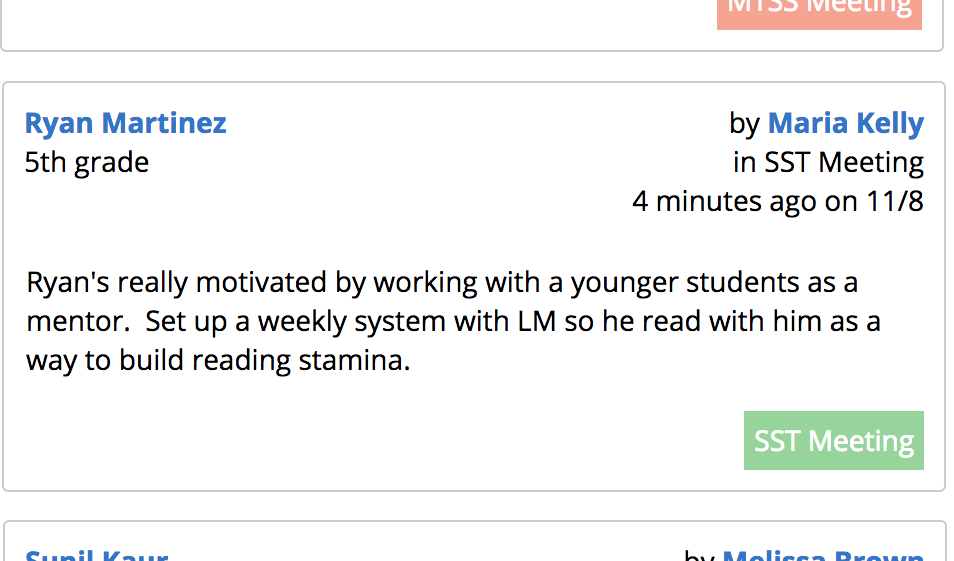
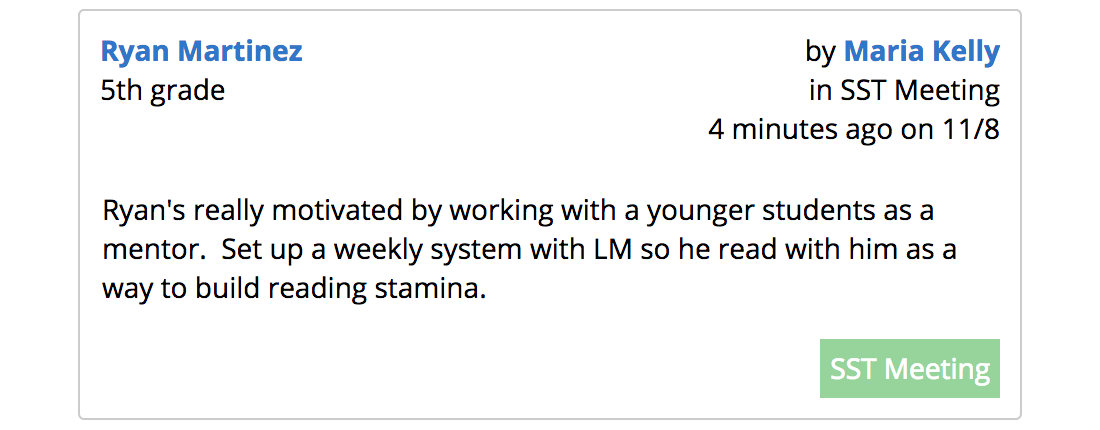
Add footer, call out email to updated address, index layout tweaks

diff --git a/assets/css/panel.scss b/assets/css/panel.scss
@@ -6,6 +6,10 @@
   border-bottom: 1px solid #eaecef; // markdown
 }
 
+.Panel-image:hover {
+  text-decoration: none;
+}
+
 /* Panel mobile */
 @media (max-width: 600px) {
   .Panel {
@@ -19,6 +23,10 @@
   .Panel-quote {
     padding-bottom: 5px;
   }
+  
+  .Panel-quote > p {
+    margin-bottom: 10px;
+  }
 
   .Panel-image {
     padding-bottom: 10px;
@@ -28,7 +36,7 @@
 /* Panel desktop */
 @media (min-width: 600px) {
   .Panel {
-    padding-top: 20px;
+    padding-bottom: 30px;
   }
 
   .Panel-container {
@@ -48,13 +56,18 @@
 
   .Panel-quote > p {
     font-size: 18px;
+    margin-bottom: 10px;
   }
 
   .Panel-image {
     flex: 4;
-    padding-left: 15px;
+    padding-left: 30px;
     display: flex;
     flex-direction: column;
     justify-content: space-between;
+  }
+
+  .Panel-button {
+    margin-top: 20px;
   }
 }

diff --git a/assets/css/navbar.scss b/assets/css/navbar.scss
@@ -19,14 +19,21 @@
 .Navbar-right {
   text-align: right;
 }
+@media (min-width: 600px) {
+  .Navbar {
+    align-items: center;
+  }
+  
+  .Navbar-right {
+    width: 12em;
+  }
+}
 @media (max-width: 600px) {
   .Navbar-right {
     width: 6em;
-  }
-}
-@media (min-width: 600px) {
-  .Navbar-right {
-    width: 12em;
+    display: flex;
+    flex-direction: column;
+    justify-content: space-between;
   }
 }
 
@@ -38,3 +45,4 @@
 .Navbar-work-item {
   display: block;
 }
+

diff --git a/_includes/navbar.html b/_includes/navbar.html
@@ -21,6 +21,6 @@
   </div>
   <div class="Navbar-right">
     <div class="Navbar-right-item"><a href="{{site.links.demo}}"><b>Demo site</b></a></div>
-    <div class="Navbar-right-item"><a href="{{site.links.email}}"><b>Email us</b></a></div>
+    <div class="Navbar-right-item"><a href="{{site.links.email}}" class="btn btn-narrow"><b>Email us</b></a></div>
   </div>
 </div>

diff --git a/assets/css/home.scss b/assets/css/home.scss
@@ -34,7 +34,7 @@
   }
 
   .Home-image-container {
-    flex: 2;
+    flex: 3;
     padding-right: 15px;
     display: flex;
     height: 100%;
@@ -48,8 +48,8 @@
   }
 
   .Home-text {
-    flex: 1;
-    padding-left: 15px;
+    flex: 2;
+    padding-left: 30px;
     display: flex;
     flex-direction: column;
     justify-content: space-between;

diff --git a/_includes/panel.html b/_includes/panel.html
@@ -7,9 +7,9 @@
         {{include.button}}
       </div>
     </div>
-    <div class="Panel-image">
+    <a class="Panel-image" href="{{include.href}}">
       {{include.image}}
-    </div>
+    </a>
     <div class="Panel-button Mobile-only">
       {{include.button}}
     </div>

diff --git a/assets/css/global.scss b/assets/css/global.scss
@@ -4,6 +4,12 @@ a.btn {
   color: white;
   padding: 10px;
   display: inline-block;
+
+  &.btn-narrow {
+    padding-top: 0;
+    padding-bottom: 0;
+    outline: 5px solid #4A90E2;
+  }
 }
 
 

diff --git a/index.md b/index.md
@@ -5,9 +5,6 @@
   <div class="Home-container">
     <div class="Home-image-container">
       <img src="img/teachers-working.jpg" alt="Teachers working together" class="Home-image" />
-        <div class="Home-image-caption">
-        Teachers working together
-        </div>
     </div>
     <div class="Home-text">
       <div>
@@ -15,19 +12,20 @@
         <p>We need more than just systems for counting numbers - we need ways to more deeply connect and tell our stories to tackle <b>what matters for our students.</b></p>
       </div>
       <div>
-        <a href="about-us.html" class="btn">Learn more about us</a>
+        <a href="about-us.html" class="btn Home-main-button">Learn more about us</a>
       </div>
     </div>
   </div>
 </section>
 
-## Our work
+<h2 style="margin-top: 30px;">Our work</h2>
 Our work on Student Insights built on the work that has [come before](about-us.html).  As we've worked, we found that three particular areas really resonated with the school community in Somerville.  Those have formed the core of Student Insights, that we've worked to deepen over time, and the base on which all other work is built.
 
 <section>
   {% assign profile_title = 'Whole-child profile' %}
+  {% assign profile_href = 'our-work.html#whole-child-profile' %}
   {% capture profile_quote %}
-    <p>"We want to understand young people as whole, not broken on the way in, and we want schooling and education to help keep young people whole as they continue to grow in a dynamic world."<a href="pals.html" style="display: block;">- Django Paris</a></p>
+    <p>"We want to understand young people as whole, not broken on the way in, and we want schooling and education to help keep young people whole as they continue to grow in a dynamic world."<div>- Django Paris</div></p>
   {% endcapture %}
   {% capture profile_image %}
     <img src="img/profile-2.png" alt="A student profile example" style="border: 1px solid #eee;" />
@@ -36,15 +34,16 @@ Our work on Student Insights built on the work that has [come before](about-us.h
       </div>
   {% endcapture %}
   {% capture profile_button %}
-    <a href="our-work.html#whole-child-profile" class="btn">More about profiles</a>
+    <a href="{{profile_href}}" class="btn">More about profiles</a>
   {% endcapture %}
-  {% include panel.html title=profile_title quote=profile_quote image=profile_image button=profile_button %}
+  {% include panel.html title=profile_title quote=profile_quote image=profile_image button=profile_button href=profile_href %}
 </section>
 
 <section>
-  {% assign notes_title = 'Student-centered notes' %}
+  {% assign notes_title = 'Student-centered narratives' %}
+  {% assign notes_href = 'our-work.html#student-centered-narratives' %}
   {% capture notes_quote %}
-    <p>"What we say shapes how adults think about and treat students, how students feel about themselves and their peers, and who gets which dollars, teachers, daily supports, and opportunities to learn."<a style="display: block;" href="pals.html">- Mica Pollock</a></p>
+    <p>"What we say shapes how adults think about and treat students, how students feel about themselves and their peers, and who gets which dollars, teachers, daily supports, and opportunities to learn."<div class="Home-quoted-person">- Mica Pollock</div></p>
   {% endcapture %}
   {% capture notes_image %}
     <img src="img/feed-simple.png" alt="A note about Ryan Martinez in 5th grade by Maria Kelly in SST Meeting 4 minutes ago on 11/8: &quot;Ryan's really motivated by working with a younger student as a mentor. Set up a weekly system with LM so he read with as a way to build reading stamina.&quot;"/>
@@ -53,15 +52,16 @@ Our work on Student Insights built on the work that has [come before](about-us.h
       </div>
   {% endcapture %}
   {% capture notes_button %}
-    <a href="our-work.html#student-centered-notes" class="btn">More about notes</a>
+    <a href="{{notes_href}}" class="btn">More about narratives</a>
   {% endcapture %}
-  {% include panel.html title=notes_title quote=notes_quote image=notes_image button=notes_button %}
+  {% include panel.html title=notes_title quote=notes_quote image=notes_image button=notes_button href=notes_href %}
 </section>
 
 <section>
   {% assign privacy_title = 'Trust, access, and privacy' %}
+  {% assign privacy_href = 'our-work.html#trust-access-and-privacy' %}
   {% capture privacy_quote %}
-    <p>"Will students be able to examine their educational record and demand that errors are fixed?  How long will data be kept on students? Will it move with them from school to school?  What sorts of data will be shared and with whom?"<a style="display: block;" href="pals.html">- Audrey Waters</a></p>
+    <p>"Will students be able to examine their educational record and demand that errors are fixed?  How long will data be kept on students? Will it move with them from school to school?  What sorts of data will be shared and with whom?"<div class="Home-quoted-person">- Audrey Waters</div></p>
   {% endcapture %}
   {% capture privacy_image %}
     <div>
@@ -72,9 +72,9 @@ Our work on Student Insights built on the work that has [come before](about-us.h
     </div>
   {% endcapture %}
   {% capture privacy_button %}
-    <a href="our-work.html#trust-access-and-privacy" class="btn">More about trust</a>
+    <a href="{{privacy_href}}" class="btn">More about trust</a>
   {% endcapture %}
-  {% include panel.html title=privacy_title quote=privacy_quote image=privacy_image button=privacy_button %}
+  {% include panel.html title=privacy_title quote=privacy_quote image=privacy_image button=privacy_button href=privacy_href %}
 </section>
 
 <section style="margin-top: 60px; margin-bottom: 30px;">

diff --git a/our-work.md b/our-work.md
@@ -94,7 +94,7 @@ The "clean slate" concept came from a team of educators discussing concerns abou
 To strike the right balance here, within Student Insights most numeric data in a student's profile is focused on the last 45 days of school or the current school year, and all these data points have context about when the data point was from.  Educators can click into tabs and see more historical information, but there is also a prompt about this core tension in how educators use school data systems.  This is a central theme in all of the Student Insights [trainings that educators lead](trainings-and-videos.html) as well.
 
 
-<h2 class="OurWork-SectionTitle">Student-centered notes</h2>
+<h2 class="OurWork-SectionTitle">Student-centered narratives</h2>
 > "What we say shapes how adults think about and treat students, how students feel about themselves and their peers, and who gets which dollars, teachers, daily supports, and opportunities to learn."<a style="display: block;" href="pals.html">- Mica Pollock</a>
 
 When we originally built Student Insights, we had no idea how popular and powerful it would be to add the simple ability for educators to say something about what was going on with a student.
@@ -231,7 +231,7 @@ This also created an interesting research question that we're working on ahead o
 ### Grades and academic supports
 At Somerville High school, one of the support structures focused particularly on helping ninth grade students make the transition from middle school to high school.  This support functions both as an interdisciplinary team PLC for teachers, and a space where they can collaborate on how to support students outside of traditional disciplinary boundaries, and grow together around specific instructional strategies or changes in practice.
 
-We initially collaborated with this team to create a [new home page](#student-centered-notes) showing what's going on with all students that an educator works with.  But one challenge that came up is that they wanted the data system to support them in seeing all the students across their courses that were struggling with their grades.  This was something they could look at a few times during the school year at the end of each quarter - after students received final grades - and they wanted to be able to respond more quickly as students grades changed from week to week.
+We initially collaborated with this team to create a [new home page](#student-centered-narratives) showing what's going on with all students that an educator works with.  But one challenge that came up is that they wanted the data system to support them in seeing all the students across their courses that were struggling with their grades.  This was something they could look at a few times during the school year at the end of each quarter - after students received final grades - and they wanted to be able to respond more quickly as students grades changed from week to week.
 
 <div class="DoubleImage DoubleImage-side-margin">
   <div class="DoubleImage-small"><img src="img/our-work/communication-and-actions.png" /></div>
@@ -260,3 +260,5 @@ Importantly, the process of thinking through and creating these triggers and lev
 This work also led to conversations across the HS admin team about some of the challenges in flexibly adapting in response to what students need, and different supports and services that aren't yet visible in these data systems.  We're excited to keep working on this and help with making the full "menu" of services and supports in the school system visible to everyone, and be a part of helping students get what they need when they need it.
 
 <a href="updates.html" class="btn">What's next?</a>
+
+{% include footer.html %}

diff --git a/trainings-and-videos.md b/trainings-and-videos.md
@@ -28,3 +28,5 @@ As we've built Student Insights, we've created different training materials ours
 
 ### Documentation
 - [Student Insights: Roles and Permissions](https://docs.google.com/document/d/1THekg_5gFdm5dIHANJgcoxEajlH4UjL4U0-nYJjI2WY/edit?usp=drive_web&ouid=114364589315833815880)
+
+{% include footer.html %}

diff --git a/updates.md b/updates.md
@@ -118,3 +118,5 @@ Friday 10/19 updates:
 - **ELL-based home page feed** for HS ELL admin
 
 <a class="btn" href="https://github.com/studentinsights/studentinsights/issues?q=is%3Apr+is%3Aclosed">See all changes on github.com</a>
+
+{% include footer.html %}

diff --git a/school-partnerships.md b/school-partnerships.md
@@ -35,3 +35,5 @@ When we start working with a new district, one of the places we start the conver
 - forcing things usually doesn't work; ask why instead
 
 <a href="our-work.html" class="btn">More about our work</a>
+
+{% include footer.html %}

diff --git a/about-us.md b/about-us.md
@@ -176,3 +176,5 @@ In the spirit of building in the open, here are links to how we've thought about
 
 
 <a href="our-work.html" class="btn">Learn more about our work</a>
+
+{% include footer.html %}
